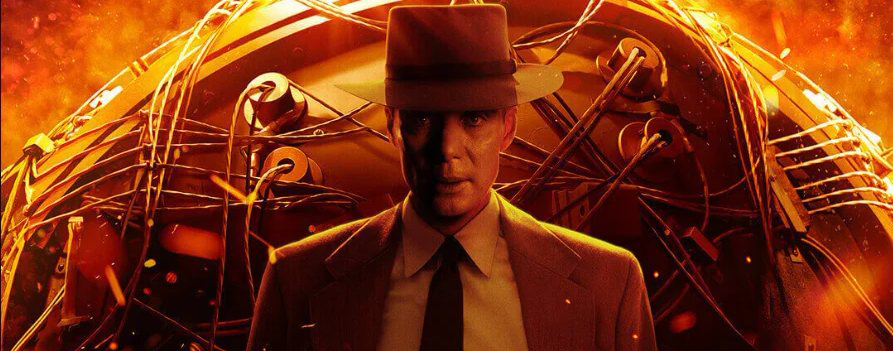
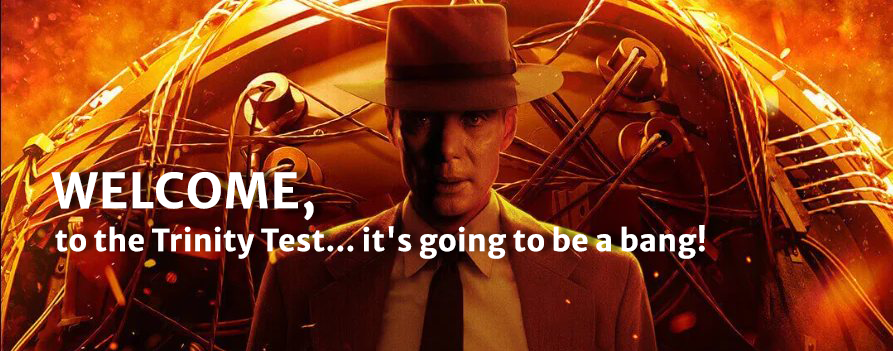
Add Trending right now text

Changed region(s): [[0.0605, 0.6268, 0.8163, 0.7407], [0.0605, 0.4843, 0.3628, 0.6268]]

diff --git a/mostalakazamed.css b/mostalakazamed.css
@@ -9,7 +9,7 @@ body{height:100vh;}
 body {
     color: #4056A1;
     background-color: #C5CBE3;
-    font-family: Merriweather;
+    font-family: Merriweather sans-serif;
 }
 
 nav {
@@ -24,7 +24,7 @@ nav {
 }
 
 .nav-link:hover {
-    color:#D79922;
+    color:#fa531b;
 }
 
 .btn {
@@ -34,9 +34,9 @@ nav {
 }
 
 .btn:hover {
-    background-color: #D79922;
+    background-color: #fa531b;
     color: #EFE2BA;
-    border-color: #D79922;
+    border-color: #fa531b;
 }
 
 .nav-bar-toggler-icon {
@@ -47,6 +47,12 @@ nav {
     color:#4056A1;
     border-color: #EFE2BA;
 }
+.cover-image {
+margin-left: 300px;
+}    
+
+.trending {
+    margin-left: 300px;
 
 .pop:hover {
     transform: translate3D(0,-1px,0) scale(1.03);
@@ -54,6 +60,9 @@ nav {
     transition: all .4s ease;
 }
 
+.card:hover {
+    box-shadow: rgba(50, 50, 93, 0.25) 0px 13px 27px -5px, rgba(0, 0, 0, 0.3) 0px 8px 16px -8px;;
+  }
 
 
 h4, h5 {

diff --git a/mostalakazamed.html b/mostalakazamed.html
@@ -51,26 +51,18 @@
       and starts of the cover-image -->
 
       <div class="container-fluid">
-        <div class="row">
-          <div class="col-md-3"></div>
-           <div class="col-md-8">
             <div class="cover-image">
                <img src="images/cover-image.png" class="img-fluid" alt="Cover Image">
-            <div class="text-overlay">
-              <h1>Welcome to Movie search made easy</h1>
             </div>
-            </div>
-           </div>
-            <div class="col-md-3"></div>
-        </div>
       </div>
+       
 
 
 
 
       <!-- The cards start here -->
 
-    <h4 class="ms-5 pt-4 text-center">Trending right now:</h4>
+    <h4 class="trending pt-4">Trending right now:</h4>
 
 <div class="container">
     <div class="row row-cols-1 row-cols-md-2 row-cols-lg-5 g-2 mx-auto w-75 mt-1">
